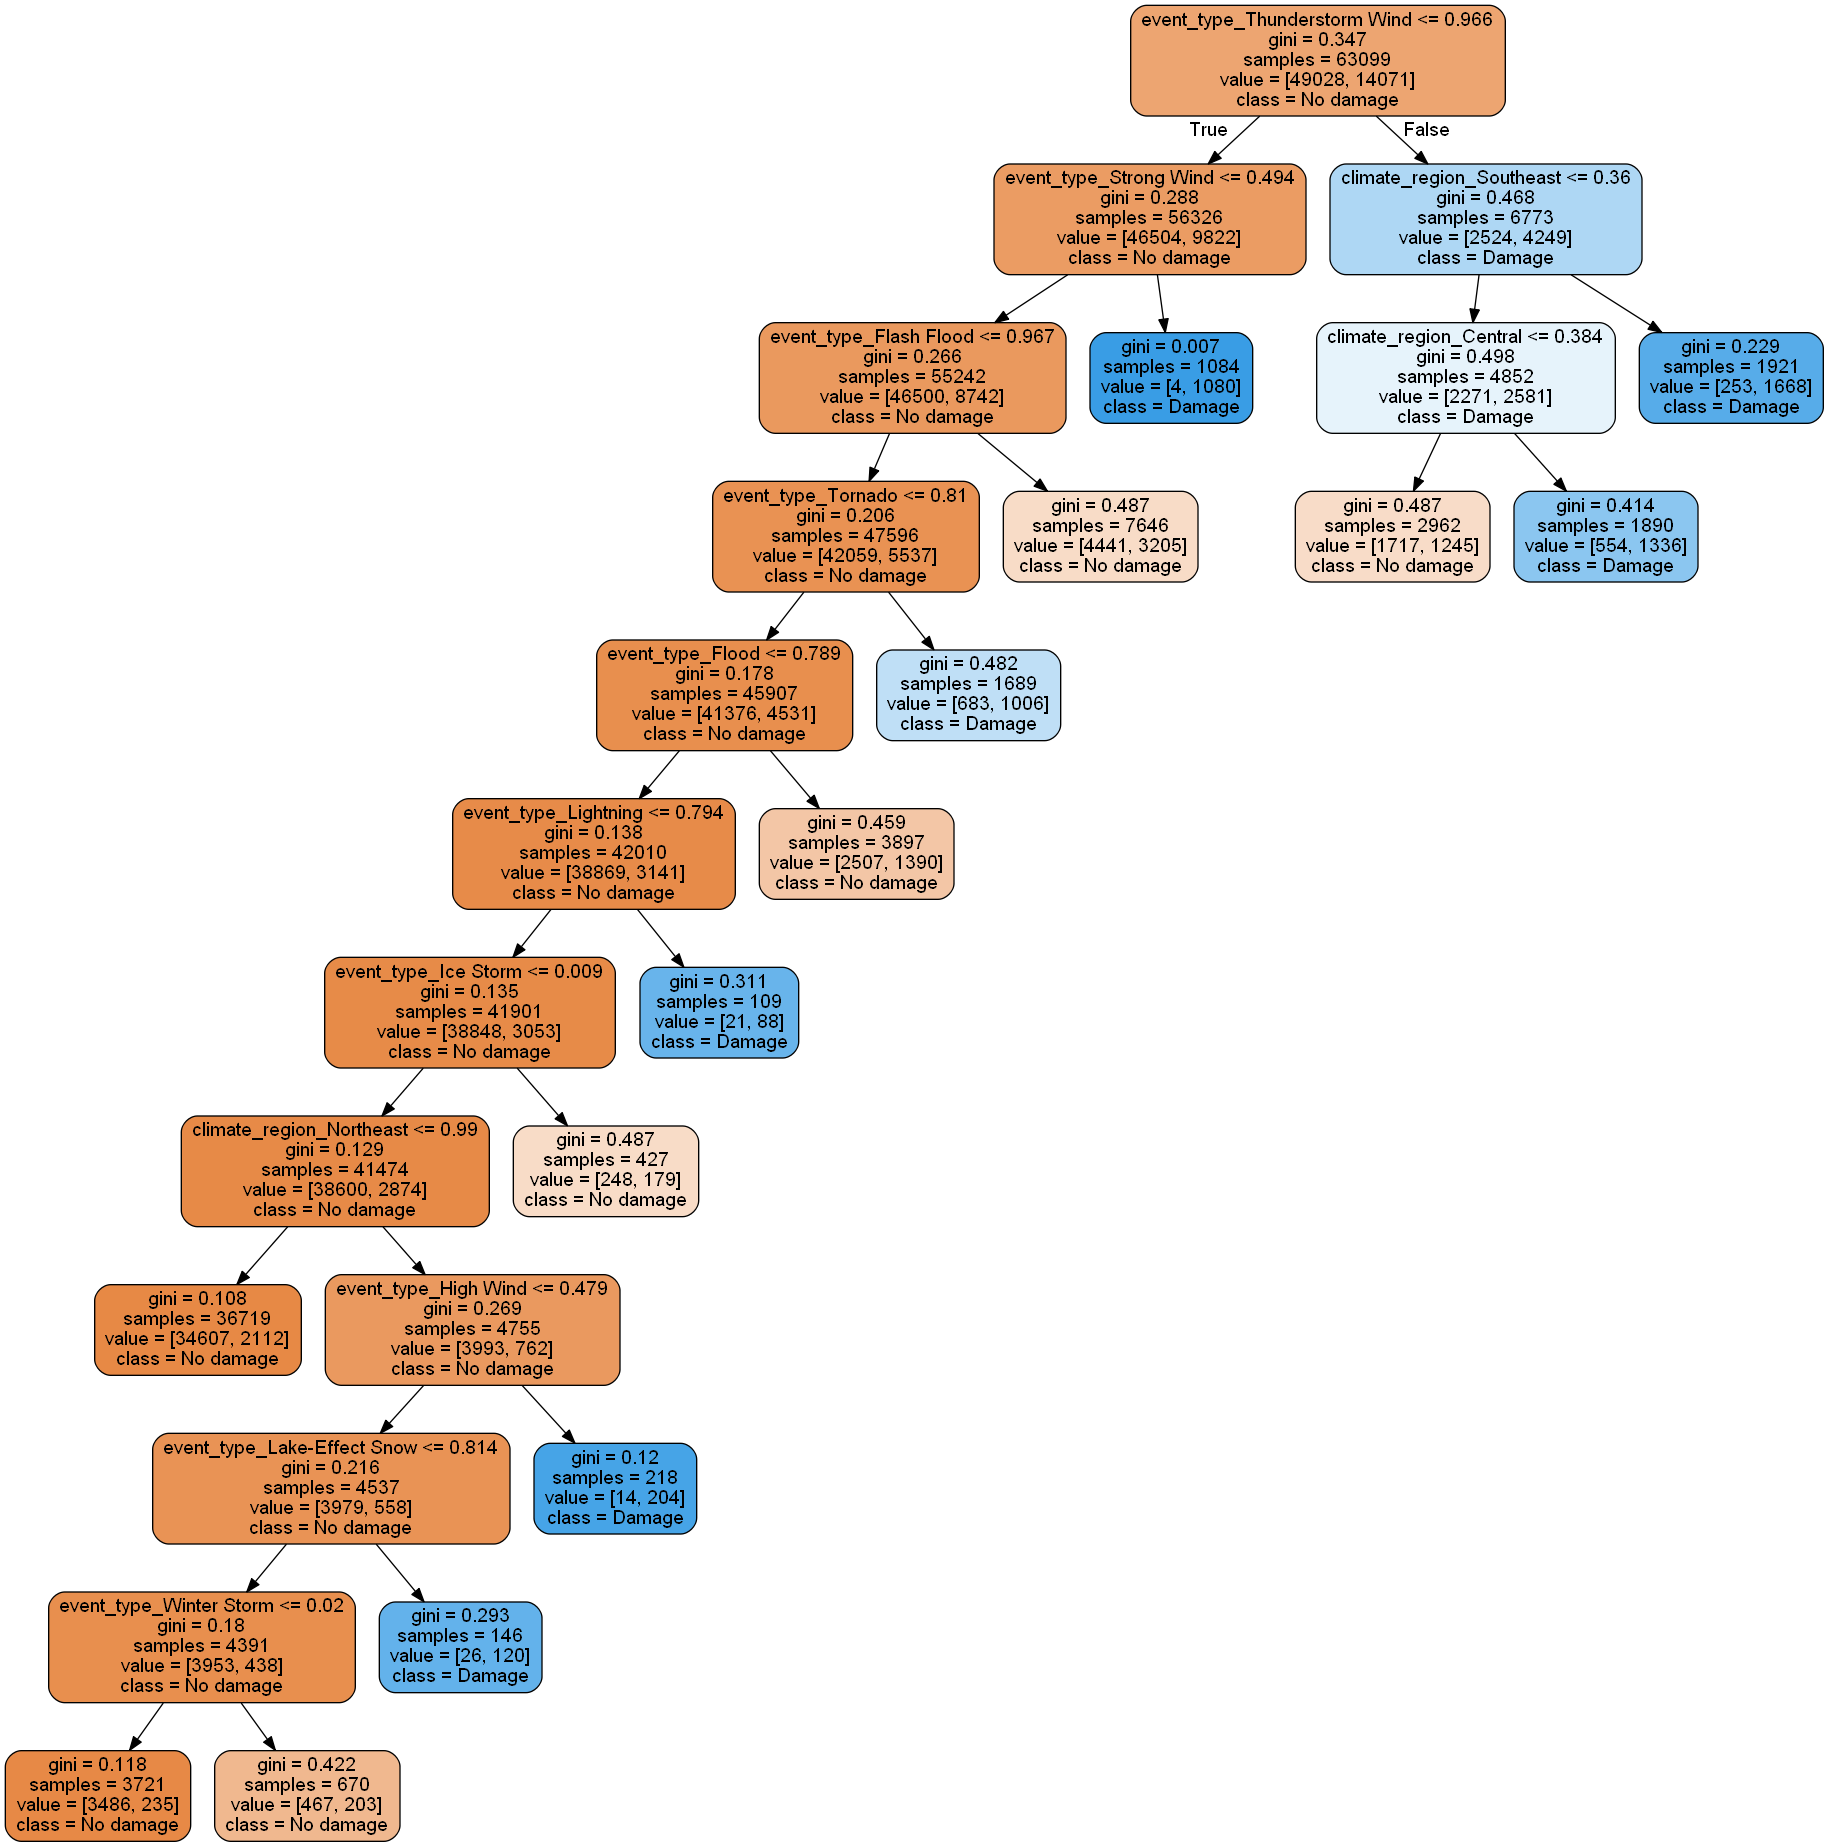
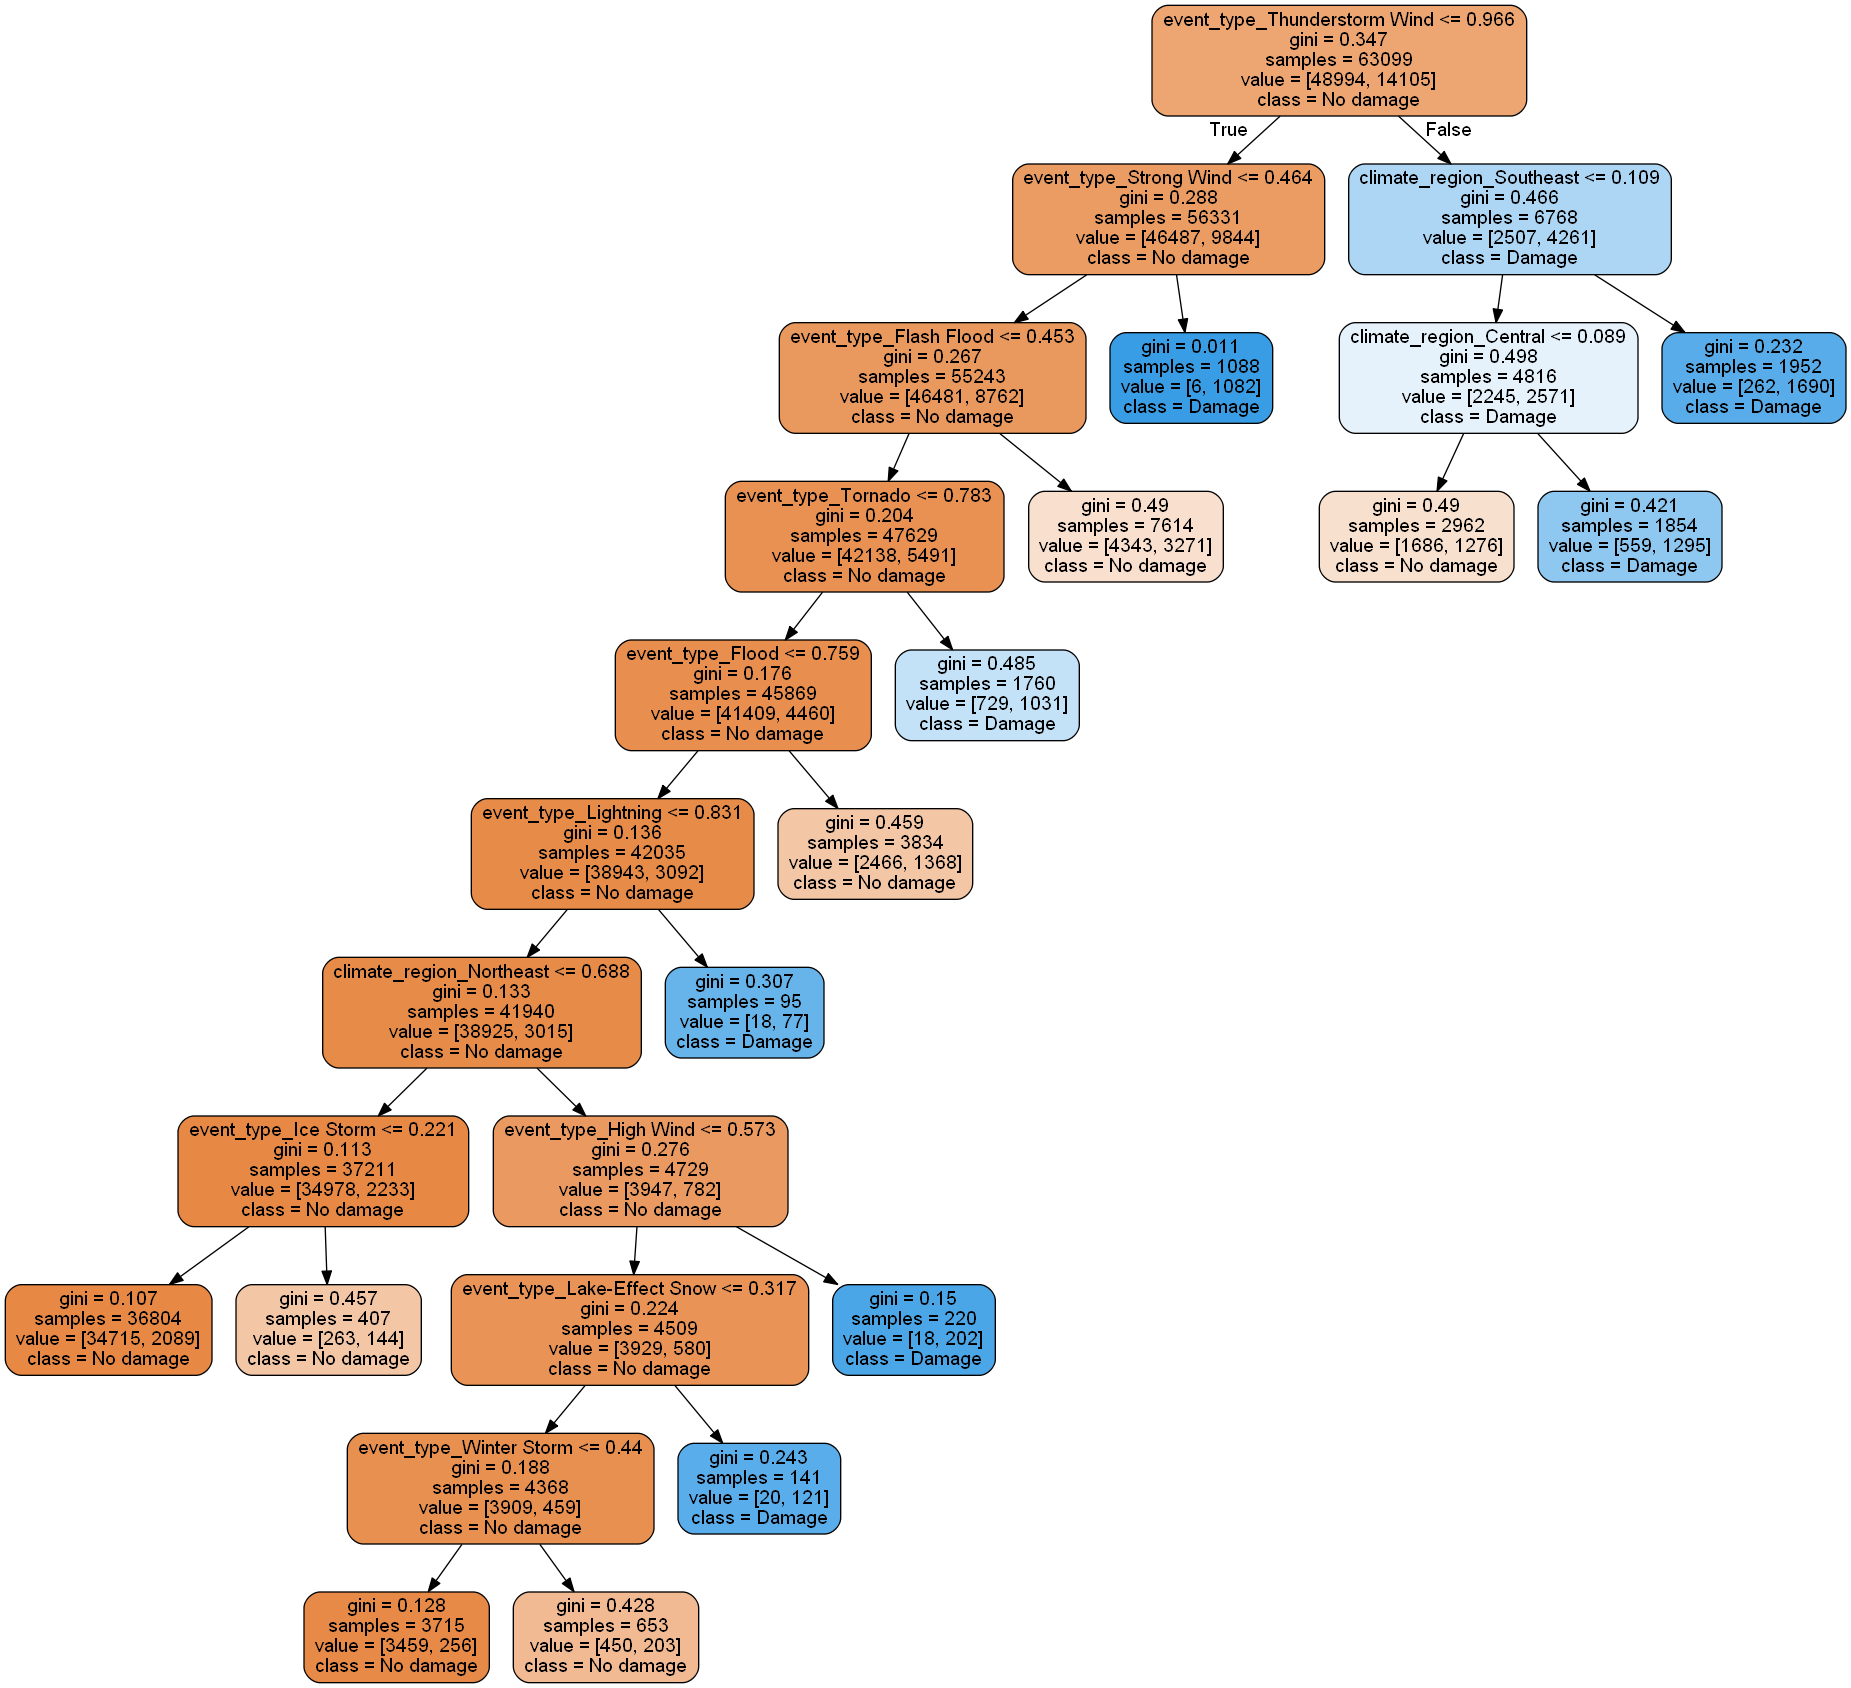
first version of the final report is ready

Changed region(s): [[0.0, 0.0, 1.0, 1.0]]

diff --git a/machine_learning_tools.py b/machine_learning_tools.py
@@ -120,7 +120,7 @@ def machine_learning_general(data_sub_set, targets, q_predictors, cat_predictors
                                                                       test_size=.3)
         print(f"The size of the training set is {pred_train.shape[0]}")
         print(f"The size of the test set is {pred_test.shape[0]}")
-        # decision_tree(pred_train, pred_test, tar_train, tar_test, random_forest=True)
+        decision_tree(pred_train, pred_test, tar_train, tar_test, random_forest=True)
         decision_tree(pred_train, pred_test, tar_train, tar_test)
 
 
